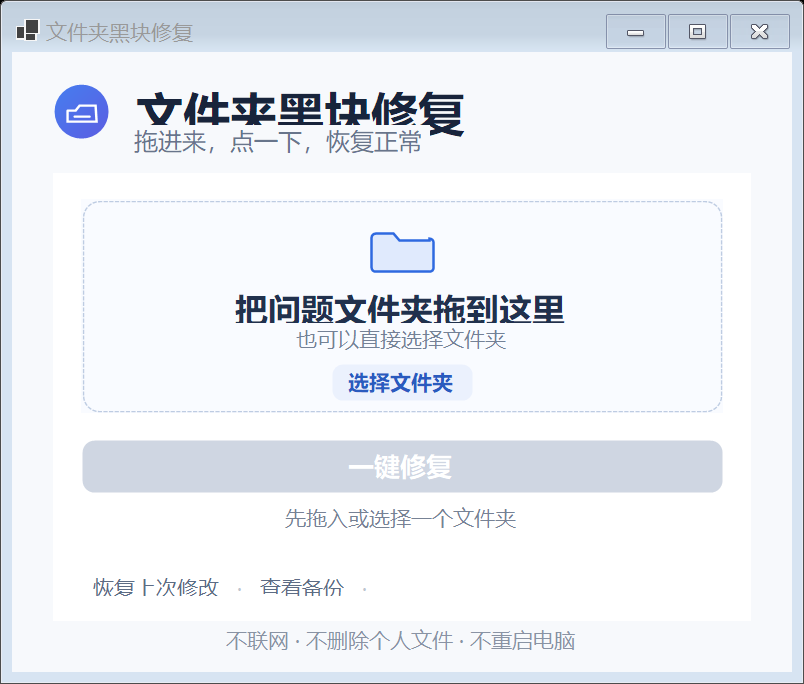
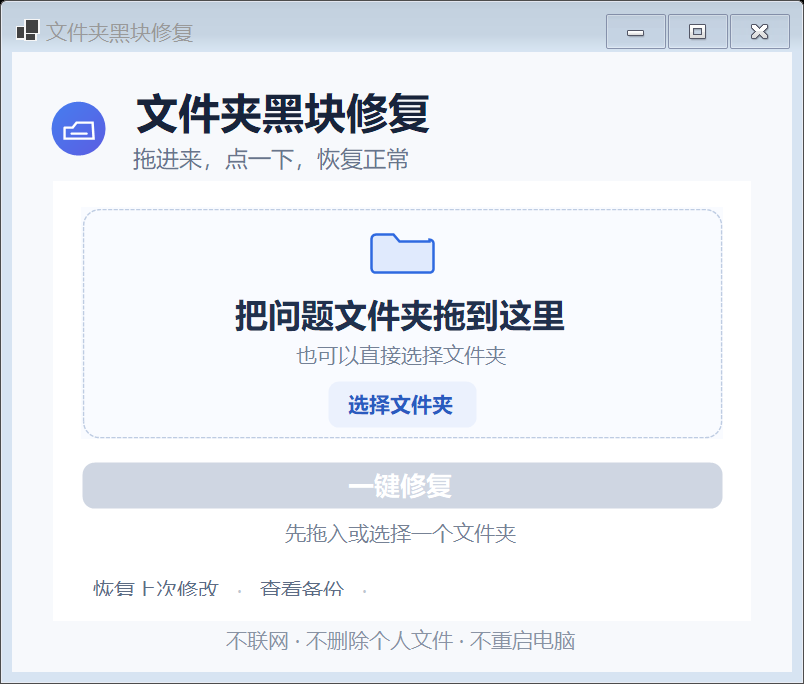
feat: release 2.0 with high-DPI adaptive layout

diff --git a/src/FolderBlackFix/MainForm.cs b/src/FolderBlackFix/MainForm.cs
@@ -20,6 +20,8 @@ internal sealed class MainForm : Form
     private readonly LinkLabel _detailsLink = new();
     private readonly Label _statusLabel = new();
     private readonly ProgressBar _progress = new();
+    private readonly Label _headerTitle = new();
+    private readonly Label _headerSubtitle = new();
     private bool _busy;
     private bool _finished;
 
@@ -41,30 +43,48 @@ internal sealed class MainForm : Form
     private void BuildUi()
     {
         var root = new TableLayoutPanel { Dock = DockStyle.Fill, Padding = new Padding(38, 26, 38, 18), ColumnCount = 1, RowCount = 3 };
-        root.RowStyles.Add(new RowStyle(SizeType.Absolute, 92));
+        root.RowStyles.Add(new RowStyle(SizeType.Absolute, 100));
         root.RowStyles.Add(new RowStyle(SizeType.Percent, 100));
         root.RowStyles.Add(new RowStyle(SizeType.Absolute, 30));
         Controls.Add(root);
 
-        var header = new Panel { Dock = DockStyle.Fill };
-        var badge = new LogoBadge { Location = new Point(0, 2), Size = new Size(56, 56) };
-        var title = new Label { Text = "文件夹黑块修复", Font = new Font("Microsoft YaHei UI", 20F, FontStyle.Bold), ForeColor = Color.FromArgb(24, 36, 59), AutoSize = true, Location = new Point(72, 0) };
-        var subtitle = new Label { Text = "拖进来，点一下，恢复正常", Font = new Font("Microsoft YaHei UI", 10F), ForeColor = Color.FromArgb(104, 117, 139), AutoSize = true, Location = new Point(75, 44) };
-        header.Controls.AddRange([badge, title, subtitle]);
+        var header = new TableLayoutPanel { Dock = DockStyle.Fill, ColumnCount = 2, RowCount = 1, Margin = Padding.Empty, Padding = Padding.Empty };
+        header.ColumnStyles.Add(new ColumnStyle(SizeType.Absolute, 76));
+        header.ColumnStyles.Add(new ColumnStyle(SizeType.Percent, 100));
+        header.RowStyles.Add(new RowStyle(SizeType.Percent, 100));
+        var badge = new LogoBadge { Size = new Size(56, 56), Anchor = AnchorStyles.Left, Margin = Padding.Empty };
+        var titleStack = new TableLayoutPanel { AutoSize = true, AutoSizeMode = AutoSizeMode.GrowAndShrink, ColumnCount = 1, RowCount = 2, Anchor = AnchorStyles.Left, Margin = Padding.Empty, Padding = Padding.Empty };
+        titleStack.ColumnStyles.Add(new ColumnStyle(SizeType.AutoSize));
+        titleStack.RowStyles.Add(new RowStyle(SizeType.AutoSize));
+        titleStack.RowStyles.Add(new RowStyle(SizeType.AutoSize));
+        _headerTitle.Text = "文件夹黑块修复";
+        _headerTitle.Font = new Font("Microsoft YaHei UI", 18F, FontStyle.Bold);
+        _headerTitle.ForeColor = Color.FromArgb(24, 36, 59);
+        _headerTitle.AutoSize = true;
+        _headerTitle.Margin = Padding.Empty;
+        _headerSubtitle.Text = "拖进来，点一下，恢复正常";
+        _headerSubtitle.Font = new Font("Microsoft YaHei UI", 9.5F);
+        _headerSubtitle.ForeColor = Color.FromArgb(104, 117, 139);
+        _headerSubtitle.AutoSize = true;
+        _headerSubtitle.Margin = new Padding(2, 4, 0, 0);
+        titleStack.Controls.Add(_headerTitle, 0, 0);
+        titleStack.Controls.Add(_headerSubtitle, 0, 1);
+        header.Controls.Add(badge, 0, 0);
+        header.Controls.Add(titleStack, 1, 0);
         root.Controls.Add(header, 0, 0);
 
         var card = new RoundedPanel { Dock = DockStyle.Fill, BackColor = Color.White, Radius = 22, Padding = new Padding(28, 26, 28, 22) };
         root.Controls.Add(card, 0, 1);
         var cardLayout = new TableLayoutPanel { Dock = DockStyle.Fill, ColumnCount = 1, RowCount = 5 };
         cardLayout.RowStyles.Add(new RowStyle(SizeType.Percent, 100));
-        cardLayout.RowStyles.Add(new RowStyle(SizeType.Absolute, 70));
-        cardLayout.RowStyles.Add(new RowStyle(SizeType.Absolute, 34));
-        cardLayout.RowStyles.Add(new RowStyle(SizeType.Absolute, 28));
-        cardLayout.RowStyles.Add(new RowStyle(SizeType.Absolute, 36));
+        cardLayout.RowStyles.Add(new RowStyle(SizeType.Absolute, 64));
+        cardLayout.RowStyles.Add(new RowStyle(SizeType.Absolute, 32));
+        cardLayout.RowStyles.Add(new RowStyle(SizeType.Absolute, 18));
+        cardLayout.RowStyles.Add(new RowStyle(SizeType.Absolute, 32));
         card.Controls.Add(cardLayout);
 
         _dropZone.Dock = DockStyle.Fill;
-        _dropZone.Margin = new Padding(0, 0, 0, 18);
+        _dropZone.Margin = new Padding(0, 0, 0, 14);
         _dropZone.AllowDrop = true;
         _folderGlyph.Size = new Size(72, 62);
         _dropTitle.Text = "把问题文件夹拖到这里";
@@ -108,13 +128,13 @@ internal sealed class MainForm : Form
         _statusLabel.ForeColor = Color.FromArgb(119, 130, 149);
         cardLayout.Controls.Add(_statusLabel, 0, 2);
         _progress.Dock = DockStyle.Fill;
-        _progress.Margin = new Padding(0, 9, 0, 9);
+        _progress.Margin = new Padding(0, 4, 0, 4);
         _progress.Style = ProgressBarStyle.Marquee;
         _progress.MarqueeAnimationSpeed = 28;
         _progress.Visible = false;
         cardLayout.Controls.Add(_progress, 0, 3);
 
-        var links = new FlowLayoutPanel { Dock = DockStyle.Fill, FlowDirection = FlowDirection.LeftToRight, WrapContents = false, AutoSize = false, Padding = new Padding(0, 8, 0, 0) };
+        var links = new FlowLayoutPanel { Dock = DockStyle.Fill, FlowDirection = FlowDirection.LeftToRight, WrapContents = false, AutoSize = false, Padding = new Padding(0, 6, 0, 0) };
         _restoreLink.Text = "恢复上次修改";
         _backupLink.Text = "查看备份";
         _detailsLink.Text = "查看详情";
@@ -126,6 +146,23 @@ internal sealed class MainForm : Form
         cardLayout.Controls.Add(links, 0, 4);
 
         root.Controls.Add(new Label { Text = "不联网 · 不删除个人文件 · 不重启电脑", Dock = DockStyle.Fill, TextAlign = ContentAlignment.BottomCenter, ForeColor = Color.FromArgb(137, 147, 164) }, 0, 2);
+    }
+
+    protected override void OnShown(EventArgs e)
+    {
+        base.OnShown(e);
+        BeginInvoke(() =>
+        {
+            PerformLayout();
+            LayoutDropZone();
+            _dropZone.Invalidate(true);
+        });
+    }
+
+    protected override void OnDpiChanged(DpiChangedEventArgs e)
+    {
+        base.OnDpiChanged(e);
+        BeginInvoke(LayoutDropZone);
     }
 
     private void WireEvents()
@@ -145,19 +182,44 @@ internal sealed class MainForm : Form
 
     private void LayoutDropZone()
     {
+        if (_dropZone.ClientSize.Width <= 0 || _dropZone.ClientSize.Height <= 0) return;
         int center = _dropZone.ClientSize.Width / 2;
-        int contentTop = Math.Max(18, (_dropZone.ClientSize.Height - 224) / 2);
-        _folderGlyph.Location = new Point(center - _folderGlyph.Width / 2, contentTop);
-        _dropTitle.SetBounds(24, contentTop + 70, Math.Max(80, _dropZone.ClientSize.Width - 48), 36);
-        _dropHint.SetBounds(36, contentTop + 108, Math.Max(80, _dropZone.ClientSize.Width - 72), 26);
-        _selectButton.Location = new Point(center - _selectButton.Width / 2, contentTop + 146);
-        _resetLink.Location = new Point(center - _resetLink.PreferredWidth / 2, contentTop + 191);
+        int titleHeight = Math.Max(_dropTitle.PreferredHeight + 4, 36);
+        int hintHeight = Math.Max(_dropHint.PreferredHeight + 2, 26);
+        int gapAfterGlyph = 10;
+        int gapAfterTitle = 2;
+        int gapBeforeButton = 10;
+        int gapBeforeReset = 8;
+        bool showSelectButton = !_finished;
+        bool showResetLink = _folders.Count > 0 && !_finished;
+        int totalHeight = _folderGlyph.Height + gapAfterGlyph + titleHeight + gapAfterTitle + hintHeight;
+        if (showSelectButton) totalHeight += gapBeforeButton + _selectButton.Height;
+        if (showResetLink) totalHeight += gapBeforeReset + _resetLink.PreferredHeight;
+
+        int y = Math.Max(4, (_dropZone.ClientSize.Height - totalHeight) / 2);
+        _folderGlyph.Location = new Point(center - _folderGlyph.Width / 2, y);
+        y = _folderGlyph.Bottom + gapAfterGlyph;
+        _dropTitle.SetBounds(24, y, Math.Max(80, _dropZone.ClientSize.Width - 48), titleHeight);
+        y = _dropTitle.Bottom + gapAfterTitle;
+        _dropHint.SetBounds(36, y, Math.Max(80, _dropZone.ClientSize.Width - 72), hintHeight);
+        y = _dropHint.Bottom;
+        if (showSelectButton)
+        {
+            y += gapBeforeButton;
+            _selectButton.Location = new Point(center - _selectButton.Width / 2, y);
+            y = _selectButton.Bottom;
+        }
+        if (showResetLink)
+        {
+            y += gapBeforeReset;
+            _resetLink.Location = new Point(center - _resetLink.PreferredWidth / 2, y);
+        }
     }
 
     private static void ConfigureSmallButton(ModernButton button, string text)
     {
         button.Text = text;
-        button.Size = new Size(142, 38);
+        button.Size = new Size(150, 48);
         button.Radius = 10;
         button.BackColor = Color.FromArgb(235, 241, 253);
         button.HoverColor = Color.FromArgb(221, 231, 250);
@@ -373,6 +435,8 @@ internal sealed class MainForm : Form
 
     internal bool ValidateUiContract(out string problem)
     {
+        PerformLayout();
+        LayoutDropZone();
         if (_dropZone.Controls.Cast<Control>().Any(control => !control.AllowDrop))
         {
             problem = "拖放区域存在不能接收文件夹的子控件";
@@ -388,9 +452,33 @@ internal sealed class MainForm : Form
             problem = "初始引导文字不正确";
             return false;
         }
+        if (_headerTitle.Parent == _headerSubtitle.Parent && _headerTitle.Bounds.IntersectsWith(_headerSubtitle.Bounds))
+        {
+            problem = "标题与副标题发生重叠";
+            return false;
+        }
+        if (_folderGlyph.Bounds.IntersectsWith(_dropTitle.Bounds) ||
+            _dropTitle.Bounds.IntersectsWith(_dropHint.Bounds) ||
+            (!_finished && (_selectButton.Top < _dropHint.Bottom || _selectButton.Bottom > _dropZone.ClientSize.Height ||
+                Math.Abs((_selectButton.Left + _selectButton.Width / 2) - _dropZone.ClientSize.Width / 2) > 2)))
+        {
+            problem = "拖放区文字或按钮发生重叠";
+            return false;
+        }
+        int buttonTextHeight = TextRenderer.MeasureText(_selectButton.Text, _selectButton.Font).Height;
+        if (_selectButton.ClientSize.Height < buttonTextHeight + Math.Max(4, DeviceDpi / 12))
+        {
+            problem = "选择按钮高度不足，文字可能被裁切";
+            return false;
+        }
         problem = string.Empty;
         return true;
     }
+
+    internal string GetLayoutDiagnostics() =>
+        $"DPI={DeviceDpi}; DropZone={_dropZone.ClientRectangle}; Glyph={_folderGlyph.Bounds}; " +
+        $"Title={_dropTitle.Bounds}; Hint={_dropHint.Bounds}; Select={_selectButton.Bounds}; " +
+        $"SelectVisible={_selectButton.Visible}; Finished={_finished}";
 }
 
 internal sealed class RoundedPanel : Panel
@@ -484,26 +572,48 @@ internal sealed class LogoBadge : Control
     }
 }
 
-internal sealed class ModernButton : Button
+internal sealed class ModernButton : Control
 {
     public int Radius { get; set; } = 10;
     public Color HoverColor { get; set; } = Color.Empty;
     private bool _hovered;
     public ModernButton()
     {
-        FlatStyle = FlatStyle.Flat; FlatAppearance.BorderSize = 0; Cursor = Cursors.Hand; UseVisualStyleBackColor = false;
-        SetStyle(ControlStyles.UserPaint | ControlStyles.AllPaintingInWmPaint | ControlStyles.OptimizedDoubleBuffer | ControlStyles.ResizeRedraw, true);
+        Cursor = Cursors.Hand;
+        TabStop = true;
+        AccessibleRole = AccessibleRole.PushButton;
+        SetStyle(ControlStyles.UserPaint | ControlStyles.AllPaintingInWmPaint | ControlStyles.OptimizedDoubleBuffer |
+                 ControlStyles.ResizeRedraw | ControlStyles.StandardClick | ControlStyles.Selectable, true);
     }
     protected override void OnMouseEnter(EventArgs e) { _hovered = true; Invalidate(); base.OnMouseEnter(e); }
     protected override void OnMouseLeave(EventArgs e) { _hovered = false; Invalidate(); base.OnMouseLeave(e); }
+    protected override void OnGotFocus(EventArgs e) { Invalidate(); base.OnGotFocus(e); }
+    protected override void OnLostFocus(EventArgs e) { Invalidate(); base.OnLostFocus(e); }
+    protected override bool IsInputKey(Keys keyData) => keyData is Keys.Space or Keys.Enter || base.IsInputKey(keyData);
+    protected override void OnKeyDown(KeyEventArgs e)
+    {
+        if (Enabled && e.KeyCode is Keys.Space or Keys.Enter)
+        {
+            OnClick(EventArgs.Empty);
+            e.Handled = true;
+        }
+        base.OnKeyDown(e);
+    }
     protected override void OnPaint(PaintEventArgs e)
     {
         e.Graphics.SmoothingMode = SmoothingMode.AntiAlias;
+        e.Graphics.Clear(Parent?.BackColor ?? SystemColors.Control);
         Rectangle rect = ClientRectangle; rect.Inflate(-1, -1);
         using GraphicsPath path = UiDrawing.RoundedRect(rect, Radius);
         Color fill = !Enabled ? Color.FromArgb(207, 214, 226) : _hovered && HoverColor != Color.Empty ? HoverColor : BackColor;
         using var brush = new SolidBrush(fill); e.Graphics.FillPath(brush, path);
         TextRenderer.DrawText(e.Graphics, Text, Font, rect, Enabled ? ForeColor : Color.White, TextFormatFlags.HorizontalCenter | TextFormatFlags.VerticalCenter | TextFormatFlags.EndEllipsis);
+        if (Focused && ShowFocusCues)
+        {
+            Rectangle focusRect = rect;
+            focusRect.Inflate(-4, -4);
+            ControlPaint.DrawFocusRectangle(e.Graphics, focusRect, ForeColor, fill);
+        }
     }
 }
 

diff --git a/src/FolderBlackFix/Program.cs b/src/FolderBlackFix/Program.cs
@@ -38,6 +38,7 @@ internal static class Program
             };
             form.Show();
             Application.DoEvents();
+            Console.WriteLine(form.GetLayoutDiagnostics());
             using var bitmap = new Bitmap(form.Width, form.Height);
             form.DrawToBitmap(bitmap, new Rectangle(Point.Empty, form.Size));
             bitmap.Save(fullPath, System.Drawing.Imaging.ImageFormat.Png);

diff --git a/docs/使用说明.md b/docs/使用说明.md
@@ -1,10 +1,55 @@
-# 使用说明
+# 文件夹黑块修复工具 v2.0.0
+
+适用于 Windows 10/11 中资源管理器里的文件夹图标、文件夹缩略图突然出现黑色背景或黑块的情况。
+
+## 最简单的用法
 
 1. 双击 `文件夹黑块修复工具.exe`。
-2. 拖入问题文件夹，或点“选择文件夹”。
-3. 点“一键修复”。
-4. 文件夹窗口自动恢复后，重新打开原文件夹查看。
+2. 把出现黑块的文件夹直接拖进窗口；也可以点“选择文件夹”。支持一次加入多个文件夹。
+3. 点“一键修复”。没有需要设置的选项。
+4. 任务栏和已经打开的文件夹窗口会短暂消失，再自动恢复。这不是电脑重启。
+5. 重新打开原文件夹查看效果。第一次打开时，Windows 可能需要几秒钟重新生成缩略图。
 
-修复会自动备份文件夹外观设置。需要撤销时，点界面底部的“恢复上次修改”。
+建议先等问题再次出现时再运行，以便确认修复是否命中实际症状。现在没有黑块时，无需预防性运行。
 
-任务栏和文件夹窗口会短暂消失，但电脑不会重启。运行前请先完成资源管理器中正在进行的复制、移动或重命名。
+## 工具会做什么
+
+- 只处理你加入列表的文件夹，不扫描整块磁盘，也不递归修改子文件夹。
+- 如果目标文件夹存在 `desktop.ini`，先做可校验的备份，再把原文件改名停用。
+- 清除目标文件夹的“自定义外观”只读/系统标记，并保存原属性以便恢复。
+- 清理当前 Windows 账户自动生成的图标缓存和缩略图缓存。
+- 重启资源管理器，并通知 Windows 刷新文件夹显示。
+
+## 不会做什么
+
+- 不会删除照片、视频、文档或其他个人文件。
+- 不会删除 `desktop.ini` 引用的 `.ico` 自定义图标文件。
+- 不会处理磁盘根目录、Windows、Program Files、Program Files (x86) 或 ProgramData。
+- 不会修改注册表、安装服务、联网、上传数据或重启电脑。
+
+## 备份与恢复
+
+备份默认保存在：
+
+```text
+%LOCALAPPDATA%\FolderBlackFix\Backups
+```
+
+需要撤销时，点界面底部的“恢复上次修改”，再选择文件夹，即可恢复该文件夹最近一次备份。恢复时如果已经出现新的 `desktop.ini`，新文件也会先改名保留，不会覆盖丢失。
+
+点“打开备份位置”可以查看所有备份。为避免误删，工具不会自动清理备份或停用的 `.bak` 副本。
+
+## 注意事项
+
+- 运行前请先完成资源管理器中正在进行的复制、移动或重命名操作，因为修复会重启资源管理器。
+- 一般不需要管理员权限。受权限保护、网络断开或只读介质上的文件夹可能无法修改；工具会显示警告，不会把失败说成成功。
+- 缩略图缓存清理后，首次浏览大量图片或视频时会暂时变慢，这是 Windows 正在重新生成缓存。
+- 如果黑块同时出现在桌面、任务栏或许多应用中，原因可能是显卡驱动或系统渲染异常，本工具不应被视为已经修好那类问题。
+
+## 文件说明
+
+- `文件夹黑块修复工具.exe`：Windows 64 位单文件版，已包含运行环境。
+- `SHA256.txt`：EXE 的完整性校验值。
+- `源码`：完整 C#/.NET 8 WinForms 源码，可自行审查与构建。
+
+此 EXE 为本地构建的未签名开源工具，没有商业代码签名证书。Windows 因此可能显示来源提醒；请先用 `SHA256.txt` 核对文件，再决定是否运行。

diff --git a/README.md b/README.md
@@ -6,7 +6,7 @@
 
 ## 下载
 
-前往 [Releases](https://github.com/linagent/windows-folder-black-fix/releases/latest) 下载 `FolderBlackFix-v1.0.0-win-x64.exe`。
+前往 [Releases](https://github.com/linagent/windows-folder-black-fix/releases/latest) 下载 `FolderBlackFix-v2.0.0-win-x64.exe`。
 
 这是 Windows 10/11 64 位单文件版，已包含 .NET 8 运行环境，无需安装。EXE 没有商业代码签名证书；下载后可用 Release 中的 `SHA256.txt` 校验完整性。
 
@@ -17,6 +17,13 @@
 3. 文件夹窗口短暂消失并恢复后，重新打开原文件夹查看。
 
 没有需要配置的选项，也不会重启电脑。
+
+## 2.0 更新
+
+- 重做高 DPI 布局：标题、副标题、拖放提示和按钮都按实际字体高度自动排列。
+- 修复 175% 系统缩放下文字重叠、按钮裁切和圆角外露问题。
+- 主按钮改为完全自绘控件，避免 Windows 原生按钮在部分缩放比例下出现黑边。
+- 增加布局契约自检，自动验证标题不重叠、选择按钮完整可见并保持居中。
 
 ## 安全设计
 
